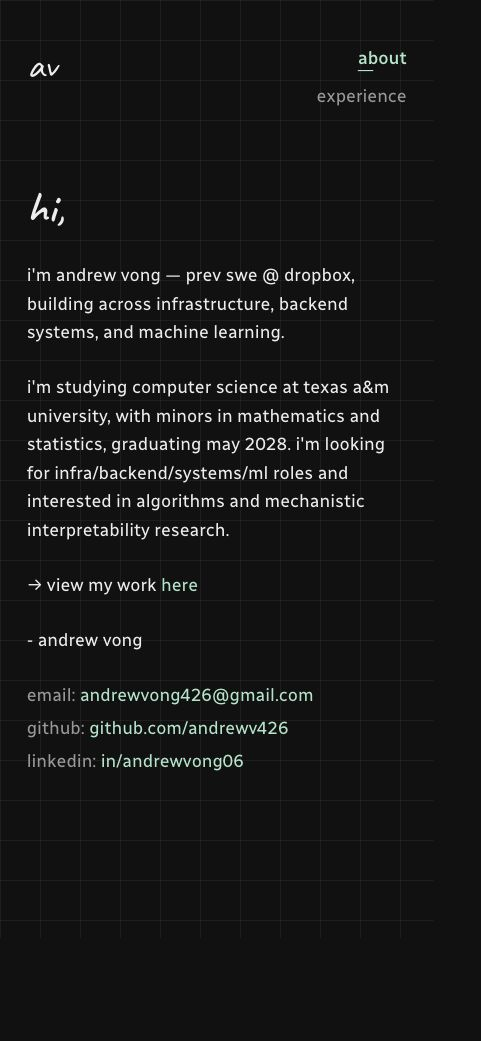
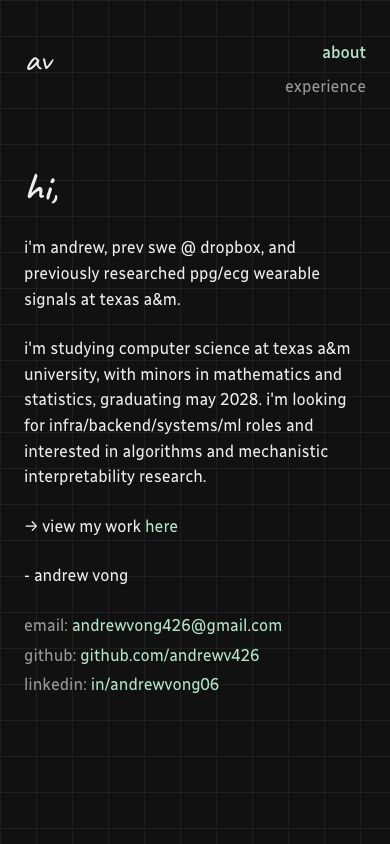
feat: highlight wearable signal research in about pitch

Changed region(s): [[0.0615, 0.1848, 0.8923, 0.8318], [0.6769, 0.0308, 0.9538, 0.1232], [0.0615, 0.0616, 0.1231, 0.0924]]

diff --git a/src/pages/About.jsx b/src/pages/About.jsx
@@ -5,8 +5,8 @@ function About() {
     <section className="page">
       <h1>hi,</h1>
       <p>
-        i'm andrew vong — prev swe @ dropbox, building across infrastructure,
-        backend systems, and machine learning.
+        i'm andrew, prev swe @ dropbox, and previously researched ppg/ecg
+        wearable signals at texas a&amp;m.
       </p>
       <p>
         i'm studying computer science at texas a&amp;m university, with minors in
